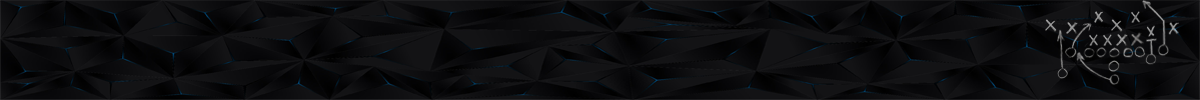
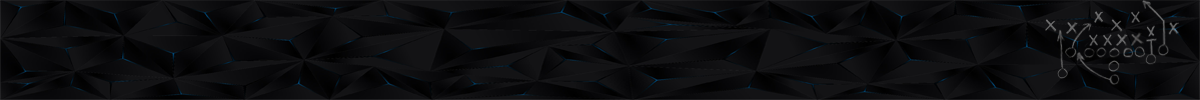
Update Captions

diff --git a/public/styles/dark-new.css b/public/styles/dark-new.css
@@ -1504,7 +1504,7 @@ caption,
 #commissioner_setup table.two_column_layout th {
   font-size: 1.375rem;
   background: transparent url(https://knuckleheads.netlify.app/images/captions/Caption-Dark-Plays.png);
-  background-position: center left; /*added*/
+  background-position: center right; /*added*/
   /*box-shadow:  inset 0 -1.25rem 1.5rem -0.25rem var(--neutral-blur, gray); /*inset shadow from bottom*/
   padding: 0.5rem;
   text-align: left;
